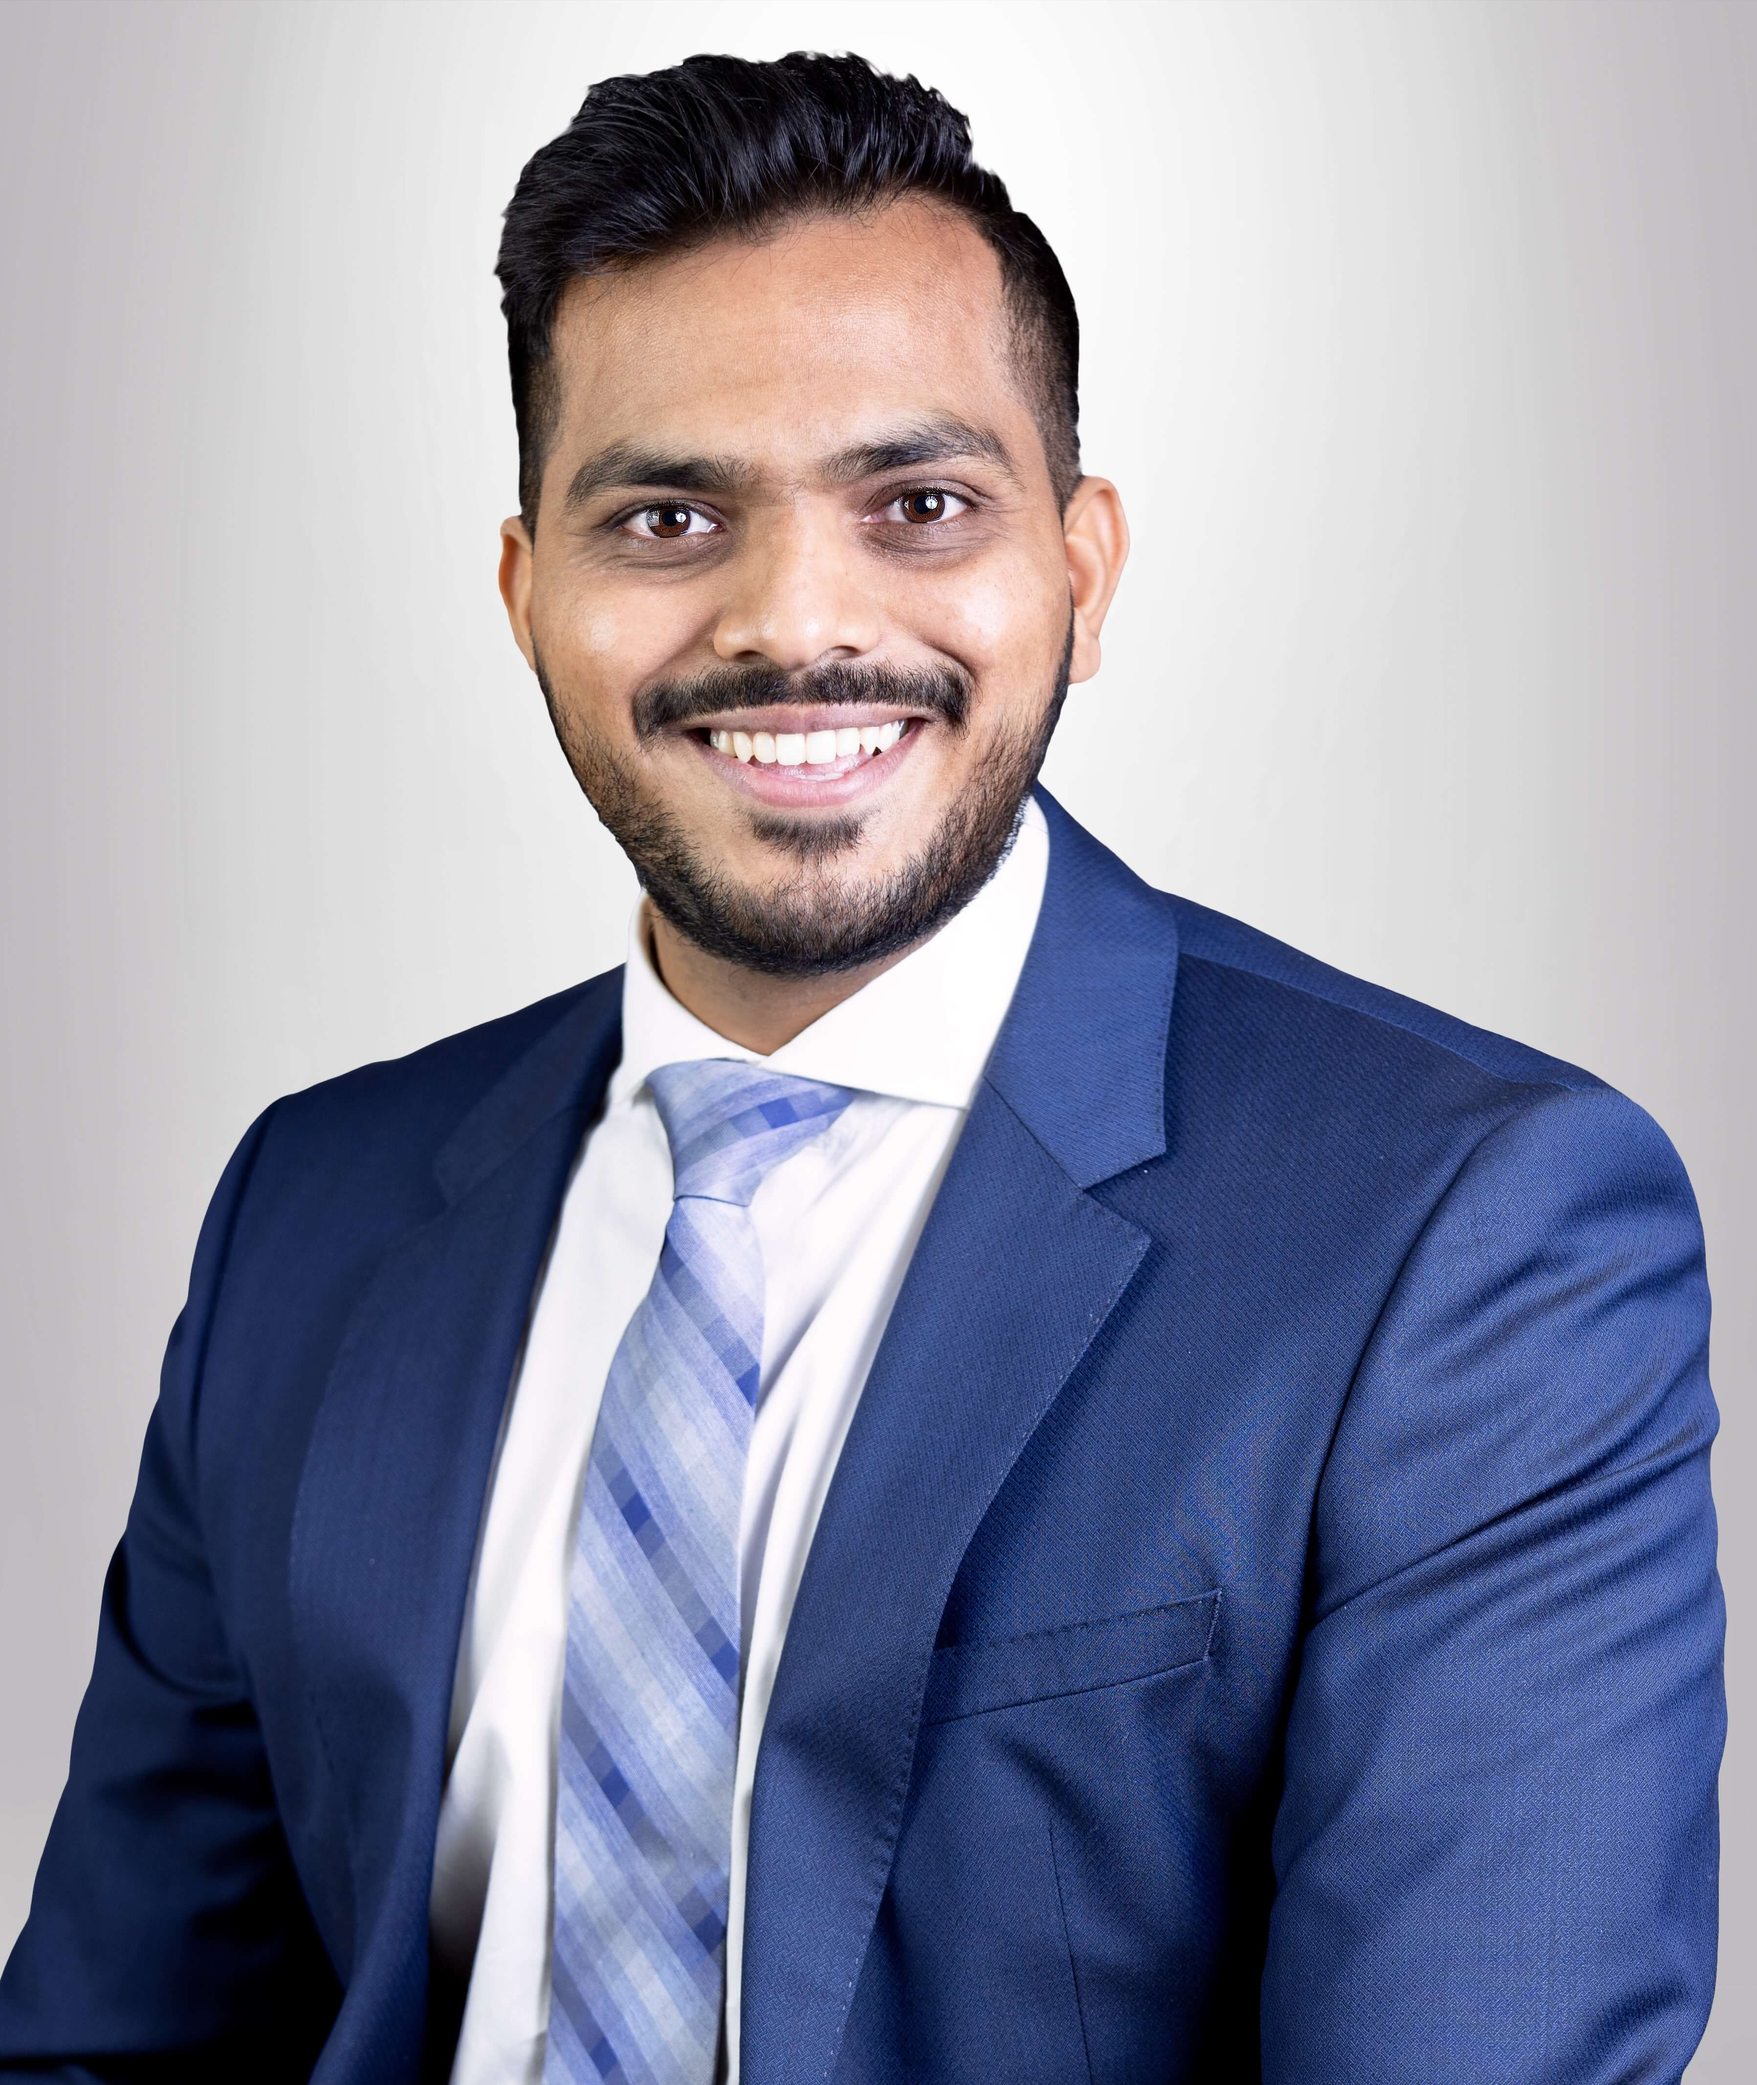
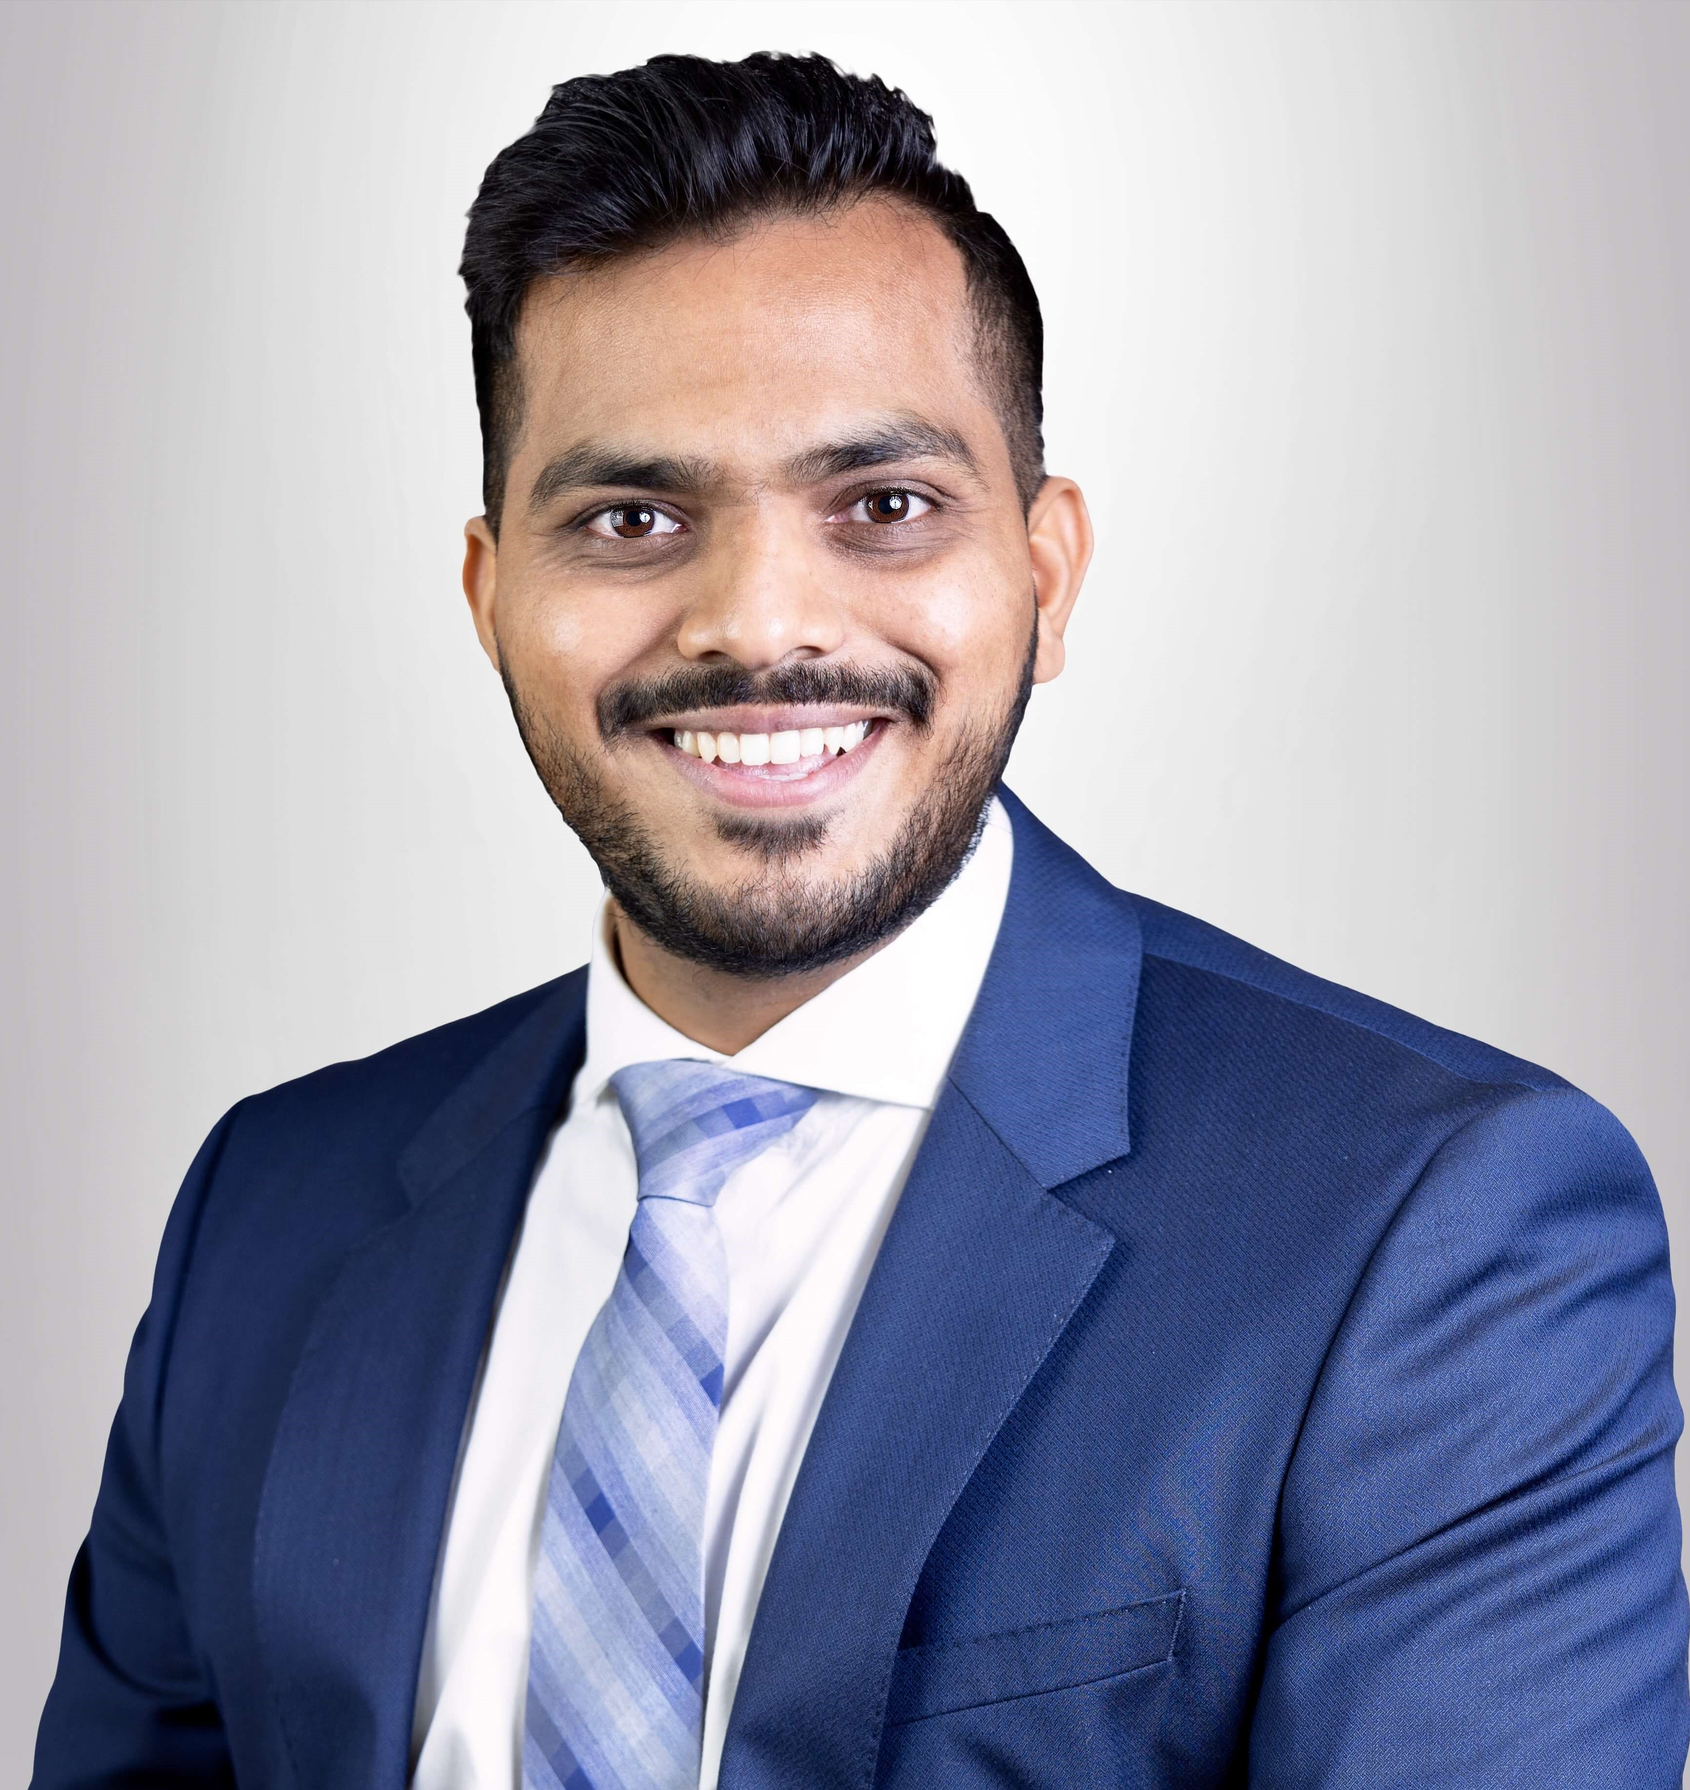
updated html info and crop headshot

diff --git a/email_sign.html b/email_sign.html
@@ -17,7 +17,7 @@
                <tbody>
                   <tr>
                      <td style="font-size: 10pt; font-family: Arial, sans-serif; border-right: 3px solid; border-right-color: #2196f3; width:180px; padding-right: 10px; vertical-align: top;" valign="top">
-                        <!-- ngIf: showField('photo') --><img ng-if="showField('photo')" ng-src="https://raw.githubusercontent.com/malav4395/profile_pic/3e2cc4ac67b0712e617e907782c3b80394649a6c/profile_pic.jpg" alt="photograph" width="120" border="0" style="border:0; height:auto; width:120px" class="ng-scope" src="https://raw.githubusercontent.com/malav4395/profile_pic/3e2cc4ac67b0712e617e907782c3b80394649a6c/profile_pic.jpg"><!-- end ngIf: showField('photo') --> 
+                        <!-- ngIf: showField('photo') --><img ng-if="showField('photo')" ng-src="https://raw.githubusercontent.com/malav4395/profile_pic/main/headshot.jpg" alt="photograph" width="120" border="0" style="border:0; height:auto; width:120px" class="ng-scope" src="https://raw.githubusercontent.com/malav4395/profile_pic/main/headshot.jpg"><!-- end ngIf: showField('photo') --> 
                         <p style="margin-top:20px; margin-bottom:0; line-height:1.2">
                            <strong><span style="font-size: 16pt; font-family: Arial, sans-serif; color:#2196f3;" class="ng-binding">Malav Panchal<br></span></strong>
                            <!-- ngIf: showField('title') --><span ng-if="showField('title')" style="font-family: Arial, sans-serif; font-size:10pt; color:#000000; font-weight: bold;" class="ng-binding ng-scope">REALTOR®</span><!-- end ngIf: showField('title') -->
@@ -35,11 +35,11 @@
                               </tr>
                               <tr>
                                  <td style="font-size: 10pt; color:#0079ac; font-family: Arial, sans-serif; padding-bottom: 5px; padding-left: 30px; vertical-align: top; line-height:1.3" valign="top">
-                                    <!-- ngIf: showField('company') --><strong ng-if="showField('company')" style="font-family: Arial, sans-serif; font-size:9pt; color:#000000;" class="ng-binding ng-scope">Coldwell Banker Peter Benninger Realty Ltd</strong><!-- end ngIf: showField('company') -->  
+                                    <!-- ngIf: showField('company') --><strong ng-if="showField('company')" style="font-family: Arial, sans-serif; font-size:9pt; color:#000000;" class="ng-binding ng-scope">Re/max Twin City Realty Inc.</strong><!-- end ngIf: showField('company') -->  
                                     <!-- ngIf: isAnyFieldEntered('address1, address2') -->
                                     <span ng-if="isAnyFieldEntered('address1, address2')" class="ng-scope">
                                        <br>
-                                       <!-- ngIf: showField('address1') --><span ng-if="showField('address1')" style="font-size: 10pt; font-family: Arial, sans-serif; color: #000000;" class="ng-binding ng-scope"><a style="text-decoration: none; color: #000000;" href="https://goo.gl/maps/vvy8qvX4M38NLnsx6">508 Riverbend Dr,<br> Kitchener, ON N2K 3S2</a></span><!-- end ngIf: showField('address1') -->
+                                       <!-- ngIf: showField('address1') --><span ng-if="showField('address1')" style="font-size: 10pt; font-family: Arial, sans-serif; color: #000000;" class="ng-binding ng-scope"><a style="text-decoration: none; color: #000000;" href="https://goo.gl/maps/DHHzMpzBp31aL9LZ7">83 Erb St W,<br> Waterloo, ON N2L 6C2</a></span><!-- end ngIf: showField('address1') -->
                                     </span>
                                     <!-- end ngIf: isAnyFieldEntered('address1') -->		
                                  </td>
@@ -74,7 +74,7 @@
                   <!-- ngIf: showField('banner') -->
                   <tr ng-if="showField('banner')" class="ng-scope">
                      <td colspan="2" style="padding-top:20px">
-                        <!-- ngIf: showField('bannerURL') --><a ng-if="showField('bannerURL')" href="https://meetings.hubspot.com/malav-panchal" target="_blank" rel="noopener" class="ng-scope"><img border="0" ng-src="https://raw.githubusercontent.com/malav4395/profile_pic/main/banner.png" alt="Banner" style="max-width:450px; height:auto; border:0;" src="https://raw.githubusercontent.com/malav4395/profile_pic/main/banner.png"></a><!-- end ngIf: showField('bannerURL') -->
+                        <!-- ngIf: showField('bannerURL') --><a ng-if="showField('bannerURL')" href="https://meetings.hubspot.com/malav-panchal" target="_blank" rel="noopener" class="ng-scope"><img border="0" ng-src="https://raw.githubusercontent.com/malav4395/profile_pic/main/Banner-remax.png" alt="Banner" style="max-width:450px; height:auto; border:0;" src="https://raw.githubusercontent.com/malav4395/profile_pic/main/Banner-remax.png"></a><!-- end ngIf: showField('bannerURL') -->
                         <!-- ngIf: !showField('bannerURL') -->
                      </td>
                   </tr>
